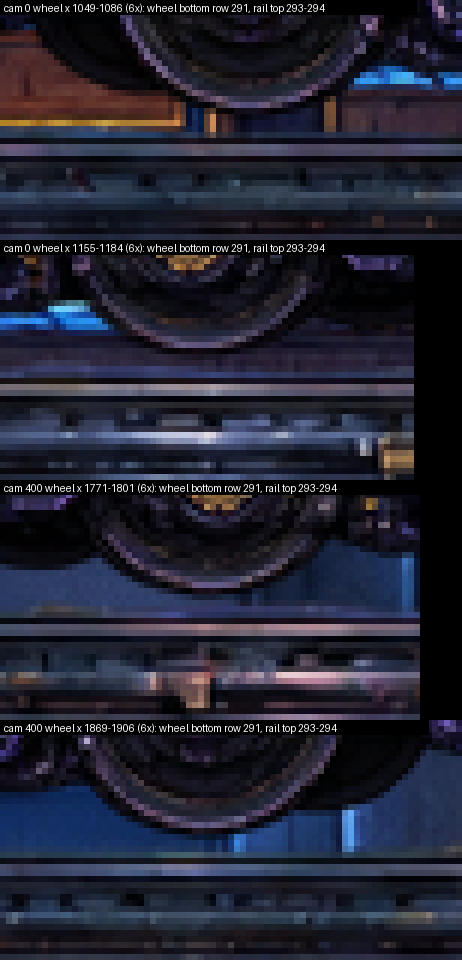
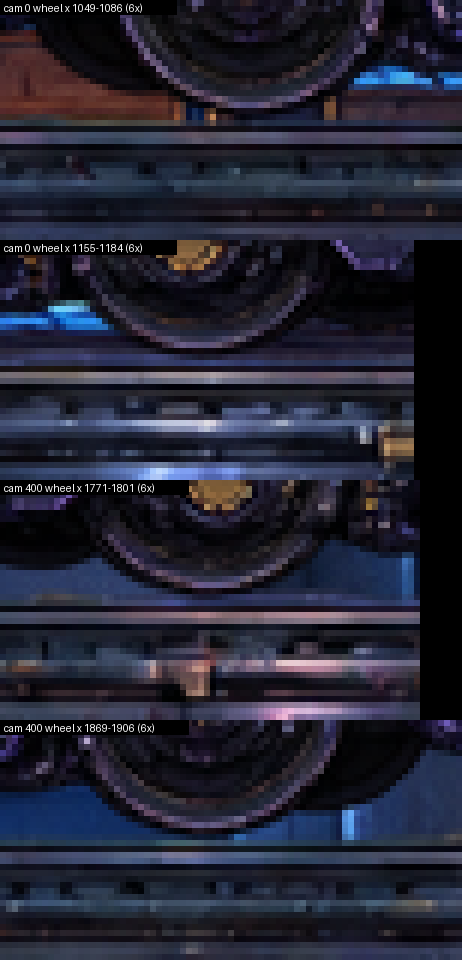
Seat the tram wheels on the track and fade the girder's right end (validator PASS, visual approval pending)
- insert moved (862, 280) -> (862, 278): rail top rows 291-292 meets wheel bottoms (row 291)
- 72 px smoothstep alpha fade on the girder's far-right end; no terminal pier; left edge and supports unchanged
- native 2021x778 source and the 1230x190 insert untouched (sha256 verified); placement and fade recorded in plate_street provenance
- tools/render_track_review.py; review images and the camera sweep regenerated; 9 stitches ok, 123-frame sweep with no pops

Not integrated into Godot; composition awaits Henry's approval.

Claude-Session: https://claude.ai/code/session_01NJ4pFBhCm3yWuxxGGAHNwJ

diff --git a/tools/render_track_review.py b/tools/render_track_review.py
@@ -1,0 +1,40 @@
+#!/usr/bin/env python3
+"""Review images for the tram-track insert (REVIEW ONLY): camera 0/400/800/1220 composites, left/right end sweeps, 6x wheel-contact zoom, HUD and prop-slot numbers.
+Usage: python3 tools/render_track_review.py"""
+import importlib.util
+from pathlib import Path
+import numpy as np
+from PIL import Image, ImageDraw
+ROOT = Path(__file__).resolve().parent.parent
+spec = importlib.util.spec_from_file_location("v", ROOT / "tools/validate_env_plates.py"); V = importlib.util.module_from_spec(spec); spec.loader.exec_module(V)
+D = ROOT / "assets/environment/neon_district"; R = ROOT / "docs/visual_redesign/environment_review"
+INS_X0, INS_X1, RAIL_ROW = 862, 2092, 291     # insert span (delivered px on plate_street) and the wheel-contact row
+WHEELS = [(1049, 1086), (1155, 1184), (1771, 1801), (1869, 1906)]
+pl = {n: V.load(D, n) for n in V.PLATES}; tr = V.load(D, V.PROP_TRAM[0])
+frame = lambda c: Image.fromarray((V.composite(pl, tr, c) * 255).astype("uint8"))
+def label(im, t):
+    dr = ImageDraw.Draw(im); dr.rectangle((0, 0, len(t) * 6 + 8, 14), fill=(0, 0, 0)); dr.text((4, 2), t, fill=(255, 255, 255)); return im
+def grid(tiles, cols, tw, th, path):
+    sh = Image.new("RGB", (tw * cols, th * ((len(tiles) + cols - 1) // cols)))
+    for i, t in enumerate(tiles): sh.paste(t, ((i % cols) * tw, (i // cols) * th))
+    sh.save(path)
+for c in (0, 400, 800, 1220): frame(c).resize((1280, 720), Image.LANCZOS).save(R / f"composite_cam{c}_REVIEW_ONLY.png")
+tiles = []
+for c in (0, 100, 200, 300, 400, 500, 570):
+    x = int(INS_X0 - 1.5 * c); x0 = max(min(x - 120, 1920 - 360), 0); tiles.append(label(frame(c).crop((x0, 690, x0 + 360, 930)), f"cam {c}: left end, delivered x {x}"))
+grid(tiles, 4, 360, 240, R / "track_left_end_sweep_REVIEW_ONLY.png")
+tiles = []
+for c in (115, 300, 500, 700, 900, 1100, 1220):
+    x = int(INS_X1 - 1.5 * c); x0 = max(min(x - 180, 1920 - 360), 0); tiles.append(label(frame(c).crop((x0, 690, x0 + 360, 930)), f"cam {c}: right end (fade), delivered x {x}"))
+grid(tiles, 4, 360, 240, R / "track_right_end_sweep_REVIEW_ONLY.png")
+tiles = []
+for c, (a, b) in ((0, WHEELS[0]), (0, WHEELS[1]), (400, WHEELS[2]), (400, WHEELS[3])):
+    x0 = int(a - 1.5 * c); f = frame(c).crop((x0 - 20, 722, x0 + (b - a) + 20, 762)); f = f.resize((f.width * 6, f.height * 6), Image.NEAREST); tiles.append(label(f, f"cam {c} wheel x {a}-{b} (6x)"))
+w = max(t.width for t in tiles); sh = Image.new("RGB", (w, sum(t.height for t in tiles))); y = 0
+for t in tiles: sh.paste(t, (0, y)); y += t.height
+sh.save(R / "track_wheel_contact_zoom_REVIEW_ONLY.png")
+for c in (0, 400, 800, 1220):
+    L = V.lum(V.composite(pl, tr, c)); print("cam", c, {zn: (round(float(L[int(y * 1.5):int((y + h) * 1.5), int(x * 1.5):int((x + w) * 1.5)].mean()), 2), round(V.tile_std(L[int(y * 1.5):int((y + h) * 1.5), int(x * 1.5):int((x + w) * 1.5)]), 3)) for zn, (x, y, w, h) in V.HUD_ZONES.items()})
+st = np.asarray(pl["plate_street"].convert("RGB"), dtype=np.float32) / 255; Ls = V.lum(st)
+for zn, (x, y, w, h) in V.SLOTS.items():
+    z = Ls[int((y - 300) * 1.5):int((y - 300 + h) * 1.5), int(x * 1.5):int((x + w) * 1.5)]; print(zn, "mean", round(float(z.mean()), 2), "detail", round(V.tile_std(z), 3))

diff --git a/tools/assemble_env_plates.py b/tools/assemble_env_plates.py
@@ -11,7 +11,7 @@ SRC = ROOT / "assets/environment/neon_district/reference/source_panels_v2"
 OV = 240   # default seam crossfade width in delivered px (a plate may set ovs per seam; trims and widths were picked by a search that minimises the visible luminance step across each stitch)
 # name: size, scale ("fit" = largest uniform scale <= 1 that keeps every part's artwork inside the plate height), outer-trim bias (share taken from the left), parts
 # part = (panel, ops); ops: opaque (alpha 1), clean (alpha >= .94 -> 1), feather=f (top alpha ramp over f of the height), burn=local exposure multiply, trim=(left,right) px after scaling
[3 lines of base64/hex data omitted]
 PLATES = {
  "plate_far":        dict(size=(2550, 720), s="fit", bias=.5, parts=[("far_left", {}), ("far_right", {})]),
@@ -94,10 +94,13 @@ def assemble(name, cfg):
         fp = ROOT / "assets/environment/neon_district" / ins["file"]
         assert sha(fp) == ins["sha256"], f"{fp} sha256 mismatch"
         pm = np.asarray(Image.open(fp).convert("RGBa")).astype(np.float32) / 255; x0, y0 = ins["at"]; h, w = pm.shape[:2]
+        fr = ins.get("fade_right", 0)
+        if fr: t = np.ones(w, np.float32); r = np.linspace(1, 0, fr, dtype=np.float32); t[w - fr:] = r * r * (3 - 2 * r); pm = pm * t[None, :, None]   # short alpha fade of the girder's far-right end (premultiplied, so colour is untouched)
         out[y0:y0 + h, x0:x0 + w] = pm + out[y0:y0 + h, x0:x0 + w] * (1 - pm[..., 3:4])
         so, sc = ins["source_dims"], ins["scale"]
         ins_rec.append({"role": "insert", "file": ins["source"], "sha256": ins["source_sha256"], "original_dimensions": list(so), "scale": sc, "scaled_dimensions": [round(so[0] * sc), round(so[1] * sc)],
-            "source_crop_px": list(ins["source_crop"]), "placed_at": list(ins["at"]), "derived_insert": {"file": ins["file"], "sha256": ins["sha256"], "dimensions": [w, h]}, "edits": {}})
+            "source_crop_px": list(ins["source_crop"]), "placed_at": list(ins["at"]), "derived_insert": {"file": ins["file"], "sha256": ins["sha256"], "dimensions": [w, h]},
+            "edits": {"placement": "moved from (862, 280) to (862, 278) so the rail top meets the tram wheels (wheel bottoms plate row 291)", "alpha_fade_right": {"px": fr, "curve": "smoothstep", "alpha_at_last_column": 0, "why": "blend the girder end into the shutter wall; no terminal pier added"}} if fr else {}})
     parts_rec += ins_rec
     if cfg.get("top_feather"):   # soft top edge of the finished strip (applied after the vertical crop so it is really visible)
         t = np.clip(np.arange(H) / (cfg["top_feather"] * H), 0, 1); out = out * (t * t * (3 - 2 * t))[:, None, None]

diff --git a/docs/visual_redesign/ENV_PLATE_ASSET_REQUIREMENTS.md b/docs/visual_redesign/ENV_PLATE_ASSET_REQUIREMENTS.md
@@ -57,4 +57,4 @@ Plates replace the procedural sky/far/mid/near/ground layers in Explore at the f
 The far, mid, near, street and foreground plates and the tram are assembled by `tools/assemble_env_plates.py` from the 15 native source panels in `reference/source_panels_v2/` (verified against its manifest by SHA-256). Only crop, uniform downscale (never up), a seam crossfade and the documented edits below are used; no plate is described as one generation. Provenance uses `resolution: "assembled_native"` with `components` (file, sha256, original_dimensions, scale, crop, position), `mosaic_dimensions` and `final_crop_px` (at most 3%). The validator checks every component hash and refuses any scale above 1.0.
 Documented edits (all recorded per component): street_center/street_right alpha made opaque with a top feather; street_left alpha cleaned (>=0.94 -> 1); a local exposure burn on the street_right wall to keep the mural prop slot calm; depth-of-field softening of the near street floor (sigma 10 px from row 300) to keep the touch-stick zone calm; a soft top edge on the finished foreground strip; per-seam trims and crossfade widths picked by a search that minimises the visible luminance step across each stitch (`tools/check_camera_seams.py` reports it and sweeps the camera for pops). The warm street_left palette is unchanged. The tram floats about 106 logical px above the street's ground; the painted track it needs is specified in `docs/visual_redesign/environment_review/tram_track_request/`.
 
-Tram track: `plate_street` includes the authored RGBA insert `reference/tram_track_source/tram_track_insert_1230x190.png` (sha256 verified, from the 2021x778 native source, crop then uniform downscale 0.66236) alpha-composited at (862, 280) after the floor softening, so it stays sharp; the tram prop is drawn after the street layer. Review findings (measured): the rail top is at plate rows 293-294 against wheel bottoms at row 291 (a 2-3 delivered px gap, shifting the insert up 2 px would seat the wheels); the right end of the girder stops abruptly at plate x 2092. Both await Henry's review.
+Tram track: `plate_street` includes the authored RGBA insert `reference/tram_track_source/tram_track_insert_1230x190.png` (sha256 verified, from the unchanged 2021x778 native source, crop then uniform downscale 0.66236) alpha-composited at (862, 278) after the floor softening, so it stays sharp; the tram prop is drawn after the street layer. Edits recorded in provenance: placement moved from (862, 280) to (862, 278) so the rail top (rows 291-292) meets the wheel bottoms (row 291); a 72 px smoothstep alpha fade on the girder's right end (no terminal pier). `tools/render_track_review.py` regenerates the review images. Awaits Henry's visual approval.
